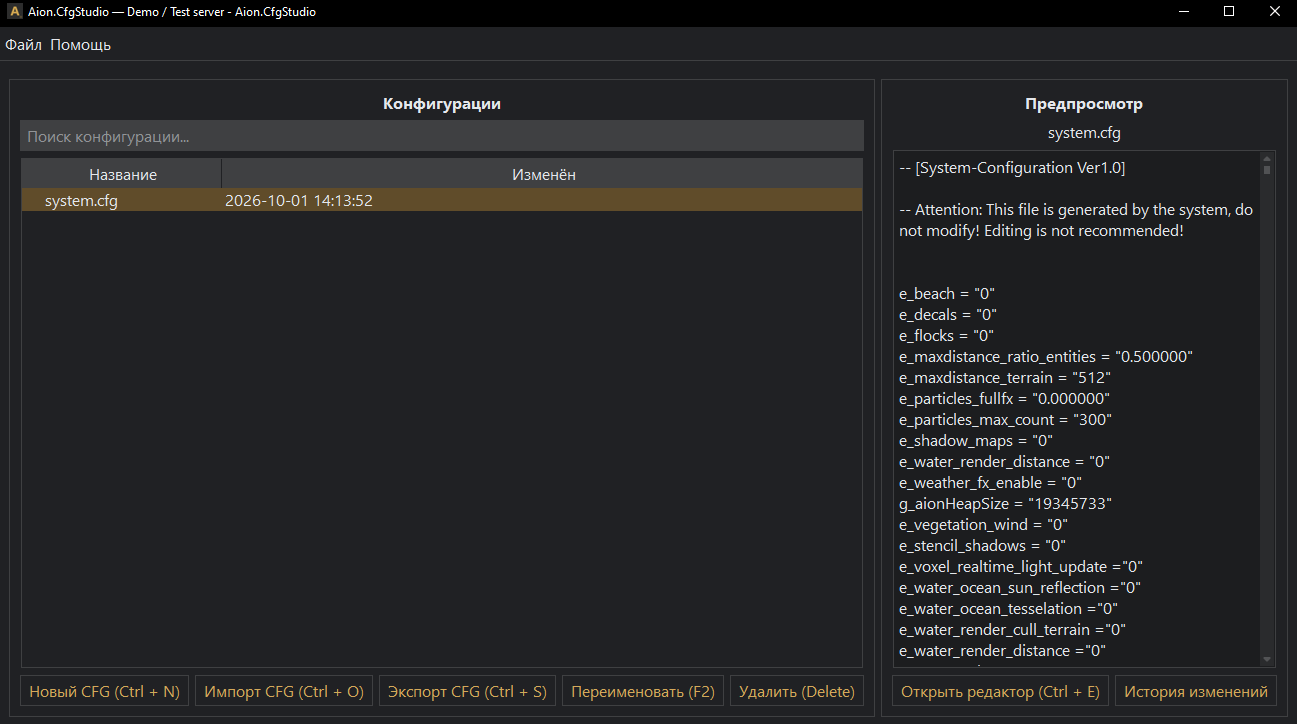
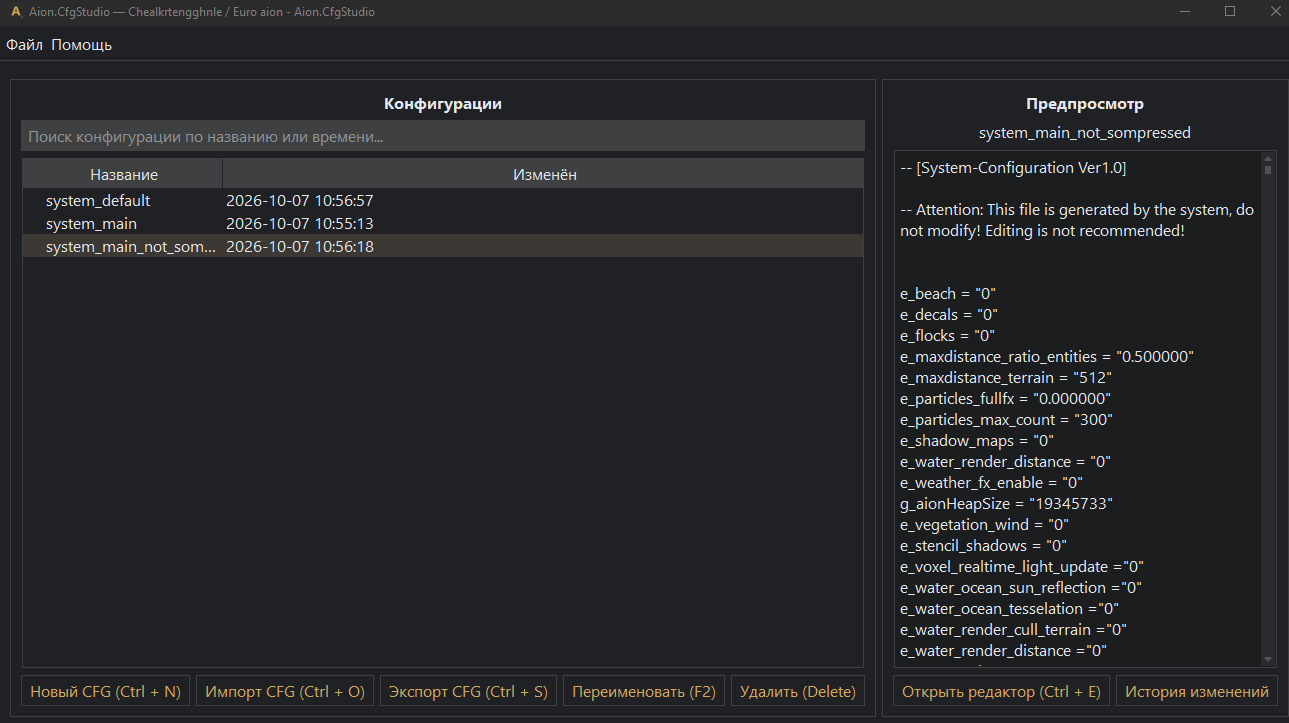
readme + images

Changed region(s): [[0.0, 0.1217, 1.0, 1.0], [0.0, 0.0, 1.0, 0.0913], [0.2793, 0.1217, 0.4034, 0.1521]]

diff --git a/README.md b/README.md
@@ -2,7 +2,7 @@
 
 Десктопное приложение для редактирования конфигурационных файлов клиента игры Aion. Написано на Python + PyQt6, использует SQLite, собирается в standalone `.exe`.
 
-![Скриншот главного окна](docs/screenshots/main.png)
+![Скриншот главного окна](docs/screenshots/intro.png)
 
 ## Возможности
 
@@ -10,7 +10,79 @@
 - Импорт / экспорт `system.cfg` - с XOR-деобфускацией и обфускацией.
 - Редактор 1100+ команд: фильтры по категории, режиму и поиску; удаление дубликатов в импортированных конфигах (в качестве финального знания берётся значение последнего вхождения соответствующей команды).
 - История изменений: фиксируются только реально изменившиеся значения.
-- Видео-руководство: встроенный плеер.
+- Видео-руководство: F1 открывает видео на GitHub (плеер скрыт, код сохранён).
+## Скриншоты
+
+### Профили
+
+![Профили](docs/screenshots/profiles.png)
+
+### Серверы
+
+![Серверы](docs/screenshots/servers.png)
+
+### Дерево конфигураций
+
+![Дерево cfg](docs/screenshots/main.png)
+
+### Редактор команд
+
+![Редактор](docs/screenshots/editor.png)
+
+### История изменений
+
+![История](docs/screenshots/logs.png)
+
+### Видео-плеер
+
+![Плеер](docs/screenshots/player.png)
+
+## Архитектура
+
+Проект построен по паттерну **MVP (Model-View-Presenter)**:
+```
+View -> Presenter → Service -> Repository -> DBManager
+```
+
+| Слой | Ответственность | Знает о |
+|---|---|---|
+| **View** (`page_*.py`) | Только UI. Виджеты, отрисовка, диалоги. | Presenter |
+| **Presenter** (`logic/presenters/`) | Логика UI: связка View и сервисов, навигация, обработка ошибок. | View, Service |
+| **Service** (`logic/services/`) | Бизнес-правила: валидация, уникальность, шифрование. Не знает о Qt. | Repository |
+| **Repository** (`logic/repositories/`) | Доступ к данным через единый интерфейс. Тонкая обёртка над `DBManager`. | DBManager |
+| **DBManager** (`database/`) | Низкий уровень: SQL, соединение, схема. | SQLite |
+
+**Плюсы:**
+- **Тестируемость**: сервисы чистые, тестируются без GUI.
+- **Заменяемость**: можно поменять UI без правок в сервисах.
+- **Читаемость**: каждая ответственность на своём месте.
+
+**Пример** (создание профиля):
+1. Пользователь жмёт «Новый профиль».
+2. `View` -> `presenter.create()`.
+3. `Presenter` спрашивает имя через `view.ask_name_hint(...)`.
+4. `Presenter` -> `service.create(name)`.
+5. `Service` валидирует имя, проверяет уникальность.
+6. `Service` -> `repo.create(name)`.
+7. `Repository` -> `db.create_profile(name)`.
+8. `DBManager` выполняет `INSERT`.
+
+## Производительность
+
+### Редактор команд
+
+Таблица из **1105 команд** построена через **`QStyledItemDelegate`**. Вместо виджетов в ячейках используются **данные** (`QTableWidgetItem`), а редакторы (`QComboBox`, `QSpinBox`, `QLineEdit`) создаются **только в момент клика**.
+
+**Результат:**
+- Построение таблицы: **~0.2 сек** (было ~2 сек с виджетами).
+- Память: **в 10–20 раз меньше**.
+- Скролл: **плавный**.
+
+### Ленивая загрузка
+
+Строки строятся **только для видимых команд** (под текущий фильтр). При смене режима / префикса / поиска таблица **перестраивается мгновенно**.
+
+Состояние **всех** команд хранится в `EditorPresenter._state`. Это позволяет **сохранять и логировать** изменения даже тех команд, которые **скрыты фильтром**.
 
 ## Технологии
 
@@ -27,7 +99,7 @@
 
 ### Вариант 1 - готовая сборка
 
-1. Скачай `AionCfgStudio_Setup_v1.0.exe` из [Releases](https://github.com/chlkrtg/Aion.CfgStudio/releases).
+1. Скачай `AionCfgStudio_Setup_v1.1.exe` из [Releases](https://github.com/chlkrtg/Aion.CfgStudio/releases).
 2. Запусти установщик.
 3. Ярлык появится в меню "Пуск".
 
@@ -38,6 +110,7 @@
 ```
 git clone https://github.com/chlkrtg/Aion.CfgStudio.git
 cd Aion.CfgStudio
+git checkout mvp-refactoring
 python -m venv .venv
 .venv\Scripts\activate
 pip install -r requirements.txt
@@ -50,6 +123,7 @@ python main.py
 ```bash
 git clone https://github.com/chlkrtg/Aion.CfgStudio.git
 cd Aion.CfgStudio
+git checkout mvp-refactoring
 python -m venv .venv
 .venv\Scripts\activate
 pip install -r requirements-dev.txt
@@ -60,7 +134,7 @@ python main.py
 
 В репозитории видео **не хранится** (слишком большое). Оно поставляется **вместе с установщиком** из раздела [Releases](https://github.com/chlkrtg/Aion.CfgStudio/releases).
 
-**Если вы собираете из исходников** - положите `tutorial.mp4` в папку `media/`. Без него приложение работает, но кнопка **F1** покажет "видео не найдено".
+**Если вы собираете из исходников с возвращением страницы плеера** - положите `tutorial.mp4` в папку `media/`. Без него приложение работает, но кнопка **F1** покажет "видео не найдено".
 
 ### Генерация озвучки
 
@@ -124,82 +198,131 @@ pyinstaller AionCfgStudio.spec --clean --noconfirm
 ISCC.exe installer\AionCfgStudio.iss
 ```
 
-Готовый установщик - `installer/Output/AionCfgStudio_Setup_v1.0.exe`.
+Готовый установщик - `installer/Output/AionCfgStudio_Setup_v1.1.exe`.
 
 ## Структура проекта
 
 ```
 Aion.CfgEditor/
-├── main.py                     # точка входа
-├── requirements.txt            # зависимости для запуска
-├── requirements-dev.txt        # зависимости для разработки
-├── AionCfgStudio.spec          # конфиг PyInstaller
+├── main.py # точка входа
+├── requirements.txt # зависимости для запуска
+├── requirements-dev.txt # зависимости для разработки
+├── AionCfgStudio.spec # конфиг PyInstaller
 ├── README.md
 ├── LICENSE
 ├── .gitignore
-├── logic/                      # логика приложения
-│   ├── app_window.py           # главное окно + QStackedWidget
-│   ├── base_page.py            # общий предок страниц
-│   ├── constants.py            # ограничения длины, версия
-│   ├── shortcuts.py            # хелперы для QShortcut
-│   ├── context_menu.py         # построение контекстных меню
-│   ├── page_profile.py         # страница профилей
-│   ├── page_server.py          # страница серверов
-│   ├── page_main.py            # дерево cfg-файлов
-│   ├── page_editor.py          # редактор команд
-│   └── page_video.py           # видео-руководство
-├── ui/                         # формы Qt Designer
-│   ├── command_editor.py/.ui
-│   ├── main_window.py/.ui
-│   ├── profile_select.py/.ui
-│   ├── server_select.py/.ui
-│   └── video_help.py/.ui
-├── database/                   # работа с БД
-│   ├── db_manager.py           # DBManager
-│   ├── schema.sql              # схема
-│   ├── seed_commands.sql
-│   ├── seed_updates.sql
-│   ├── seed_modes.sql
-│   └── generate_seed.py        # скрипт генерации seed-файлов
-├── parsers/                    # парсеры
-│   └── cfg_crypto.py           # XOR-обработка
-├── resources/                  # ресурсы
-│   └── icons/
-│       ├── aion.cfgstudio.ico
-│       └── aion.cfgstudio_ico.png
-├── media/                      # видео-руководство
-│   └── tutorial.mp4            # не в Git - в Release
-├── docs/                       # документация
-│   └── screenshots/
-│       ├── editor.png
-│       ├── main.png
-│       └── player.png
-├── installer/                  # установщик
-│   └── AionCfgStudio.iss       # Inno Setup
-└── generate_voice.py           # генерация озвучки (dev)
+│
+├── logic/ # логика приложения
+│ ├── app_window.py # главное окно + QStackedWidget
+│ ├── base_page.py # общий предок страниц
+│ ├── constants.py # ограничения длины, версия
+│ ├── logs_dialog.py # таблица с логами
+│ ├── shortcuts.py # хелперы для QShortcut
+│ ├── context_menu.py # построение контекстных меню
+│ ├── value_delegate.py # делегат для колонки значений
+│ │
+│ ├── repositories/ # доступ к БД (тонкая обёртка)
+│ │ ├── __init__.py
+│ │ ├── profile_repository.py
+│ │ ├── server_repository.py
+│ │ ├── config_repository.py
+│ │ └── command_repository.py
+│ │
+│ ├── services/ # бизнес-логика (без Qt)
+│ │ ├── __init__.py
+│ │ ├── profile_service.py
+│ │ ├── server_service.py
+│ │ ├── config_service.py
+│ │ ├── editor_service.py
+│ │ └── reference_service.py
+│ │
+│ ├── presenters/ # логика UI (связка View и Service)
+│ │ ├── __init__.py
+│ │ ├── base_presenter.py
+│ │ ├── profile_presenter.py
+│ │ ├── server_presenter.py
+│ │ ├── main_presenter.py
+│ │ ├── editor_presenter.py
+│ │ └── video_presenter.py
+│ │
+│ ├── page_profile.py # страница профилей (только UI)
+│ ├── page_server.py # страница серверов (только UI)
+│ ├── page_main.py # дерево cfg-файлов (только UI)
+│ ├── page_editor.py # редактор команд (только UI)
+│ └── page_video.py # видео-руководство (скрыто)
+│
+├── ui/ # формы Qt Designer
+│ ├── command_editor.py/.ui
+│ ├── main_window.py/.ui
+│ ├── profile_select.py/.ui
+│ ├── server_select.py/.ui
+│ └── video_help.py/.ui
+│
+├── database/ # работа с БД
+│ ├── db_manager.py # DBManager
+│ ├── schema.sql # схема
+│ ├── seed_commands.sql
+│ ├── seed_updates.sql
+│ ├── seed_modes.sql
+│ └── generate_seed.py # скрипт генерации seed-файлов
+│
+├── parsers/ # парсеры
+│ └── cfg_crypto.py # XOR-обработка
+│
+├── resources/ # ресурсы
+│ └── icons/
+│ ├── aion.cfgstudio.ico
+│ └── aion.cfgstudio_ico.png
+│
+├── media/ # видео-руководство
+│ └── tutorial.mp4 # не в Git — в Release
+│
+├── docs/ # документация
+│ └── screenshots/
+│ ├── editor.png
+│ ├── main.png
+│ └── player.png
+│
+├── installer/ # установщик
+│ └── AionCfgStudio.iss # Inno Setup
+│
+└── generate_voice.py # генерация озвучки (dev)
 ```
 
 ## Горячие клавиши
 
-| **_Клавиша_** | **_Действие_** |
-|---|---|
-| F1 | Видео-руководство |
-| F2 | Переименовать |
-| Delete | Удалить |
-| Ctrl+N | Создать |
-| Ctrl+O | Импорт cfg |
+| **_Клавиша_** | **_Действие_**                     |
+|---|------------------------------------|
+| F1 | Видео-руководство                  |
+| F2 | Переименовать                      |
+| Delete | Удалить                            |
+| Ctrl+N | Создать                            |
+| Ctrl+O | Импорт cfg                         |
 | Ctrl+S | Экспорт cfg / сохранить в редакторе |
-| Ctrl+E | Открыть редактор |
-| Ctrl+Q | Назад / выход |
-| Space | Пауза (в плеере) |
-| ← / → | Перемотка 5 сек |
-| ↑ / ↓ | Громкость |
-| 0–9 | Переход к % видео |
-| Esc | Назад |
+| Ctrl+E | Открыть редактор                   |
+| Ctrl+Q | Назад / выход                      |
+| Space | Пауза (в плеере)                   |
+| ← / → | Перемотка 5 сек (в плеере)         |
+| ↑ / ↓ | Громкость (в плеере)               |
+| 0–9 | Переход к % видео (в плеере)       |
+| Esc | Назад                              |
 
 ## Лицензия [![License: MIT](https://img.shields.io/badge/License-MIT-yellow.svg)](https://opensource.org/licenses/MIT)
 
 MIT - см. [LICENSE](LICENSE).
+
+## История версий
+
+### v1.1
+- Переход на **MVP-архитектуру**: repositories -> services -> presenters -> view.
+- **Делегаты** в редакторе команд: ускорение в ~10 раз.
+- **Ленивая загрузка** строк редактора.
+- **Логирование** при автосохранении.
+- **`ReferenceService`**: устранены пробои через слои.
+- **`closeEvent`**: автосохранение при закрытии.
+
+### v1.0
+- Изначальная версия (см. [основную ветку](https://github.com/chlkrtg/Aion.CfgStudio/tree/main)).
 
 ## Благодарности
 
